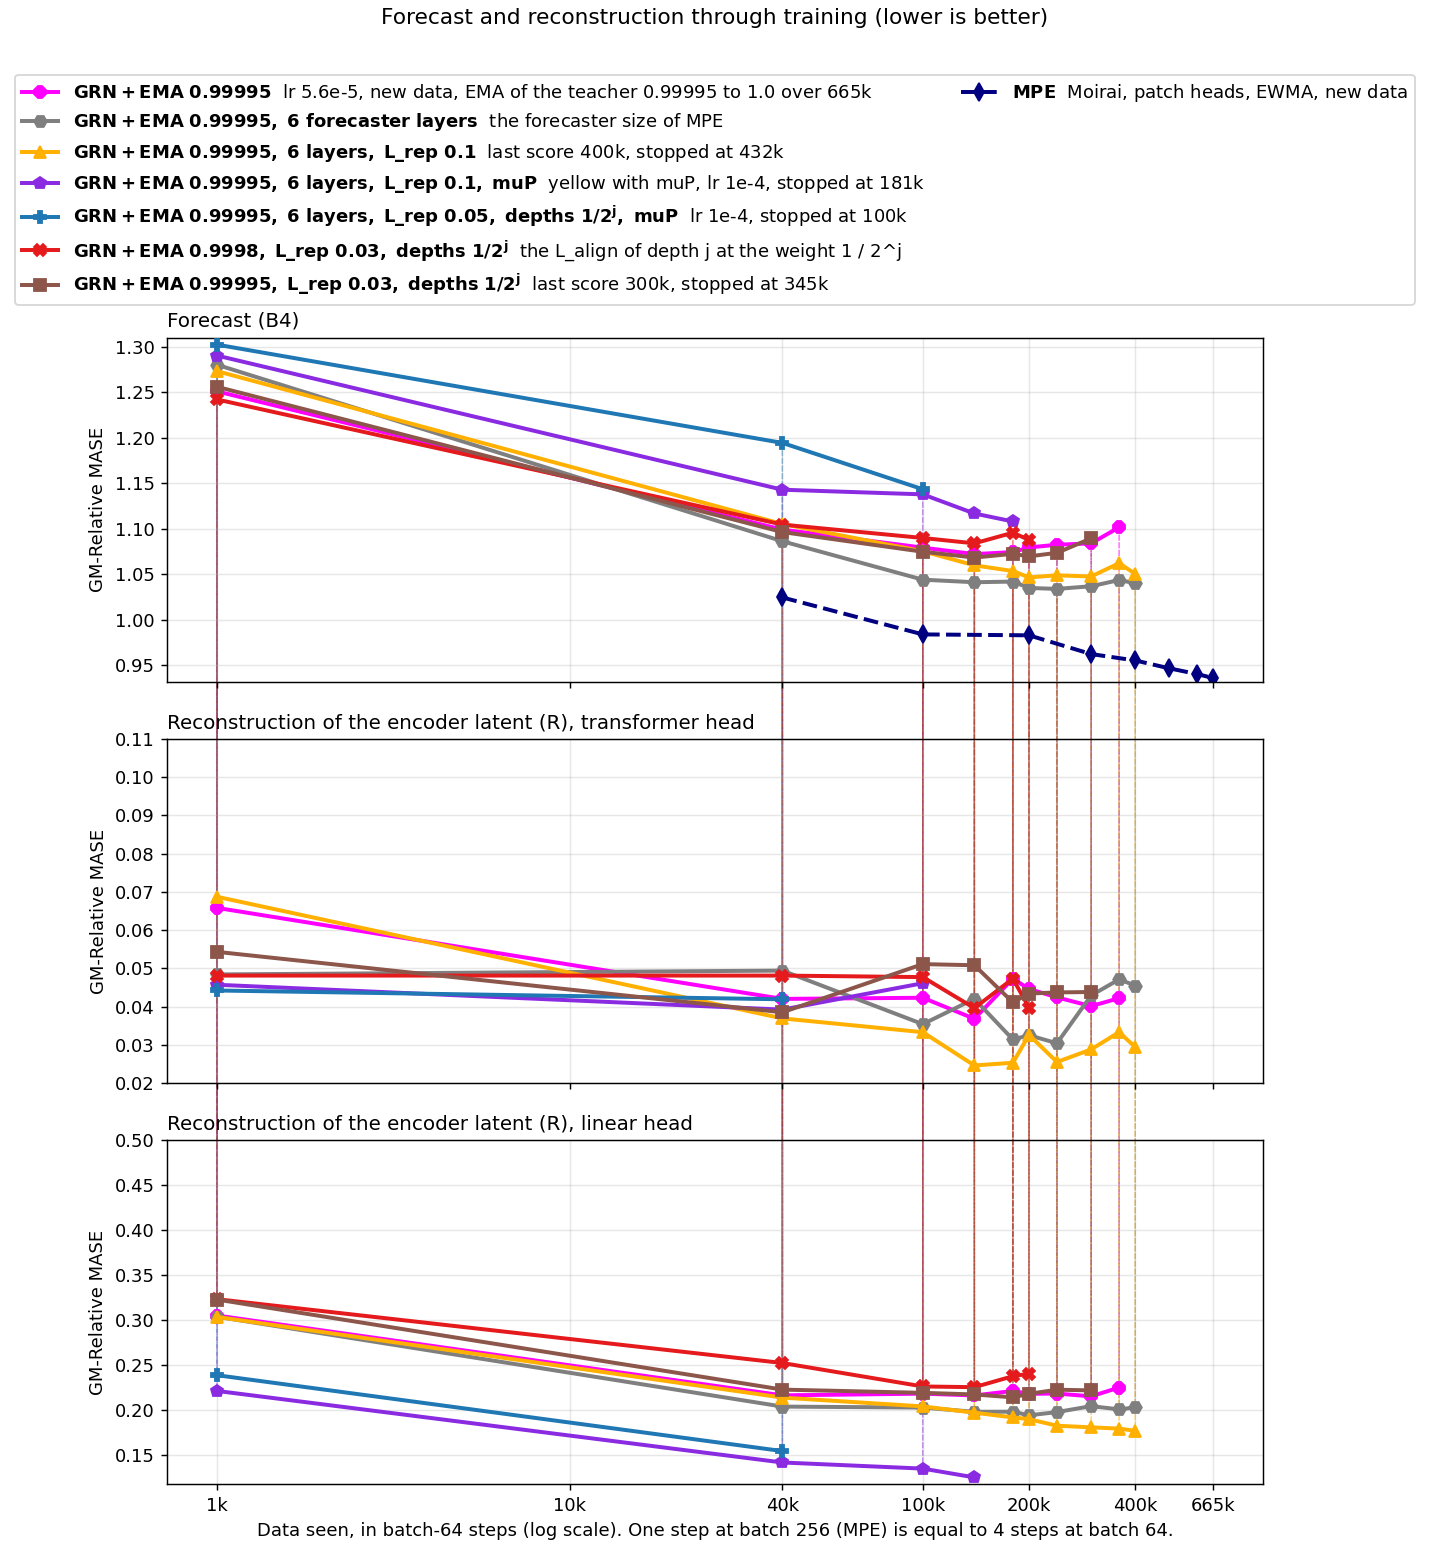
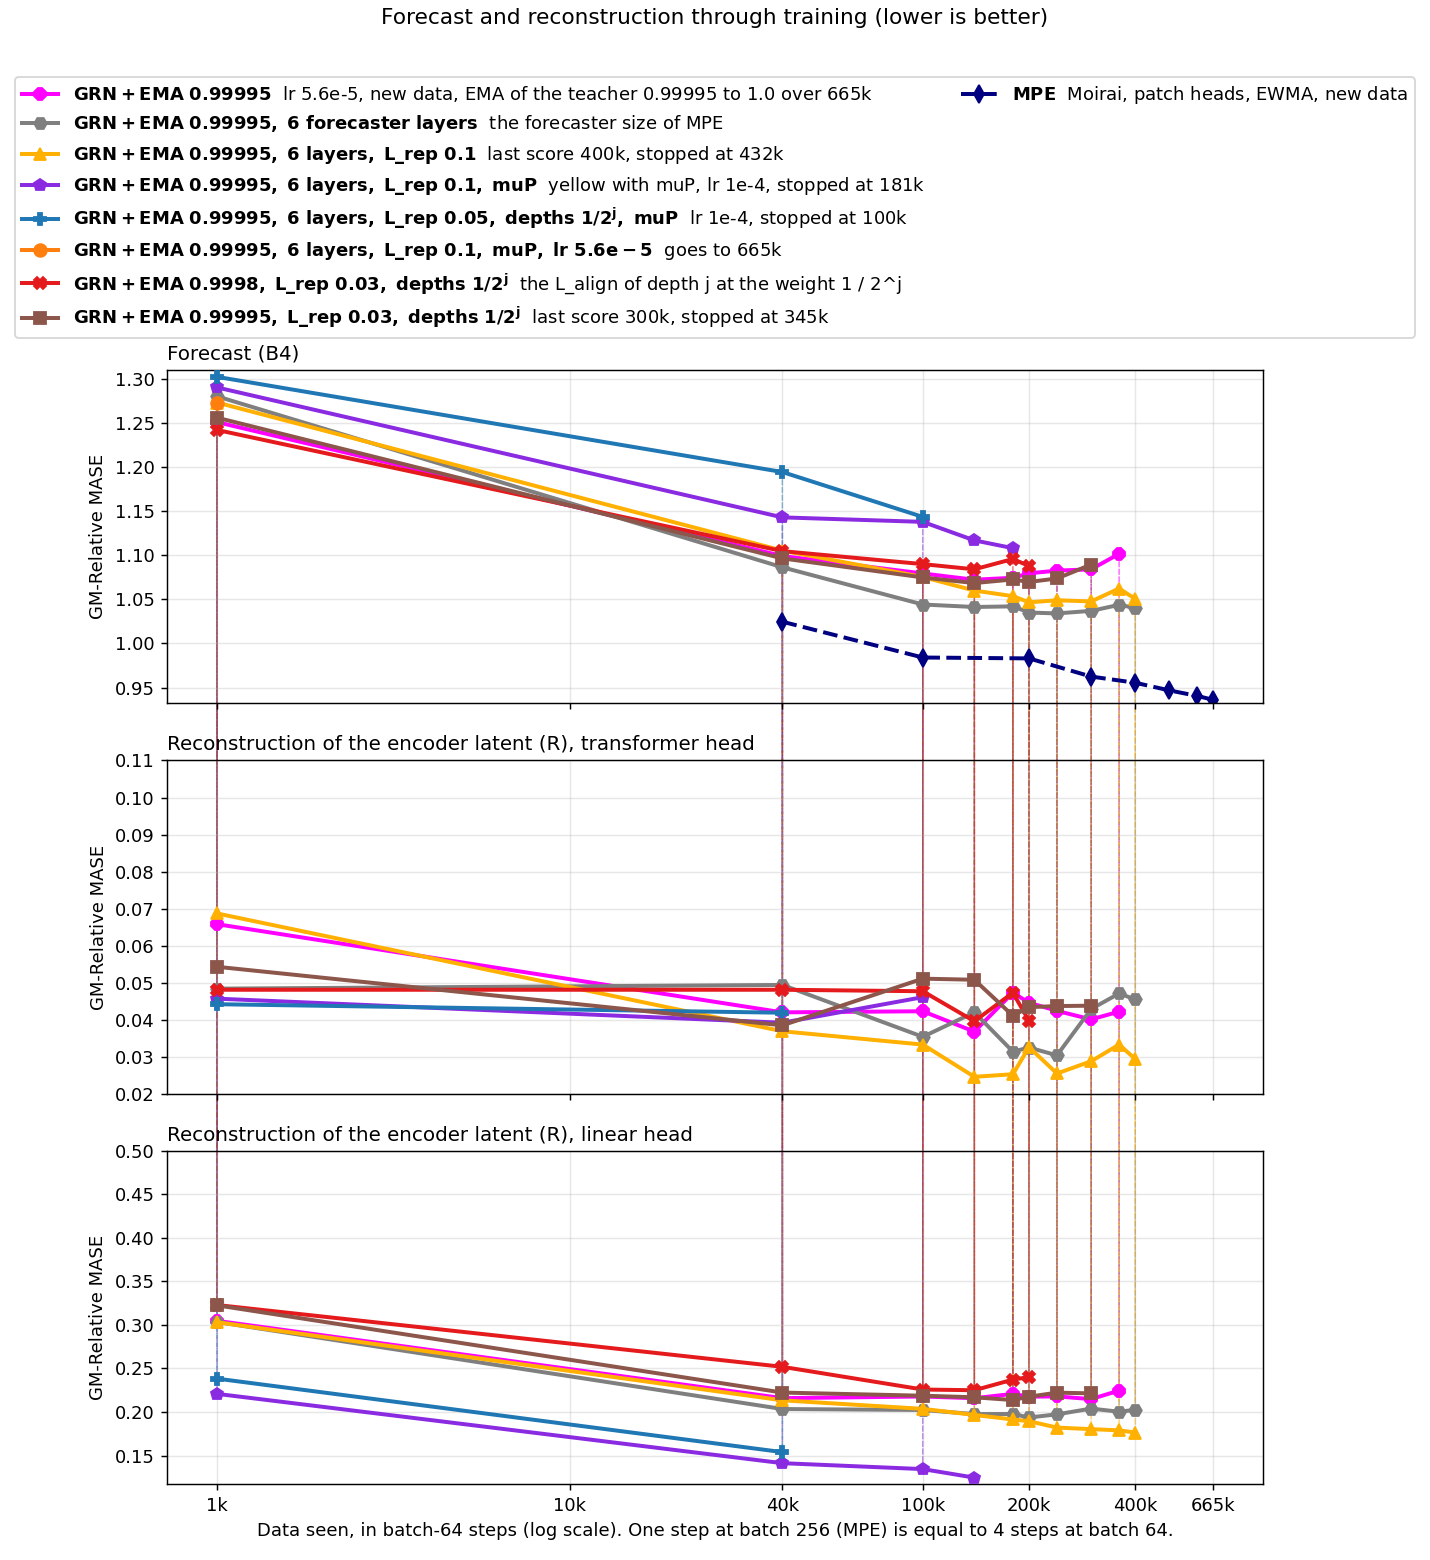
freq_family report: orange's 1k forecast; orange, lime and pink in the score figure

Changed region(s): [[0.0, 0.0308, 0.8923, 0.9538], [0.6769, 0.0308, 0.9846, 0.0615]]

diff --git a/reports/2026-10-10_frequency_family_head/scripts/plot_green_scores.py b/reports/2026-10-10_frequency_family_head/scripts/plot_green_scores.py
@@ -2,7 +2,8 @@
 for the runs of this report (GRN+EMA 0.99995, GRN+EMA 0.99995 with a
 forecaster of 6 layers, the same with the L_rep weight 0.1 at each
 step, the same with muP, the same with the L_rep weight 0.05 and the depth
-weights 1 / 2^j, GRN+EMA 0.9998 with the L_rep weight 0.03 and the depth
+weights 1 / 2^j, the muP run with lr 5.6e-5, with the EMA 0.999975, or with
+lr 3.36e-4 and the input init 1.008, GRN+EMA 0.9998 with the L_rep weight 0.03 and the depth
 weights 1 / 2^j, the same with the EMA 0.99995), next to the forecast of MPE
 (Moirai, patch heads, EWMA, new data, batch 256: x 4 for the data seen).
 Writes plots/forecast_and_reconstruction.png: three panels on one x axis.
@@ -20,7 +21,9 @@ reports/2026-10-06_encoder_reconstruction/results/*.tsv), and the scores of
 the runs of this report (GRN+EMA 0.99995: arm grn_ema099995, with 6
 forecaster layers: arm grn_ema099995_f6, and with the L_rep weight 0.1: arm
 grn_ema099995_f6_rep01, and with muP (the settings of the muP grid, lr 1e-4):
-arm grn_ema099995_f6_rep01_mup, GRN+EMA 0.9998 with the L_rep weight 0.03 and
+arm grn_ema099995_f6_rep01_mup, and its variants: arms
+grn_ema099995_f6_rep01_mup_lr56, grn_ema0999975_f6_rep01_mup and
+grn_ema099995_f6_rep01_mup_hid56, GRN+EMA 0.9998 with the L_rep weight 0.03 and
 the depth weights 1 / 2^j: arm grn_ema09998_rep003_halving, and the same with
 the EMA 0.99995: arm grn_ema099995_rep003_halving): results/scores.tsv (B4,
 arm `control`), and results/recon_*.tsv (R, with the columns arm, stop in
@@ -57,6 +60,12 @@ GRN_EMA099995_F6_REP01_MUP_COLOUR = "#8a2be2"  # no other run of this figure has
 GRN_EMA099995_F6_REP005_HALVING_MUP = "grn_ema099995_f6_rep005_halving_mup"
 # no other run of this figure has this colour
 GRN_EMA099995_F6_REP005_HALVING_MUP_COLOUR = "#1f77b4"
+GRN_EMA099995_F6_REP01_MUP_LR56 = "grn_ema099995_f6_rep01_mup_lr56"
+GRN_EMA099995_F6_REP01_MUP_LR56_COLOUR = "#ff7f0e"  # orange
+GRN_EMA0999975_F6_REP01_MUP = "grn_ema0999975_f6_rep01_mup"
+GRN_EMA0999975_F6_REP01_MUP_COLOUR = "#7fff00"  # lime
+GRN_EMA099995_F6_REP01_MUP_HID56 = "grn_ema099995_f6_rep01_mup_hid56"
+GRN_EMA099995_F6_REP01_MUP_HID56_COLOUR = "#ff69b4"  # pink
 GRN_EMA09998_REP003_HALVING ="grn_ema09998_rep003_halving"
 GRN_EMA09998_REP003_HALVING_COLOUR = "#e41a1c"  # no other run of this figure has this colour
 GRN_EMA099995_REP003_HALVING = "grn_ema099995_rep003_halving"
@@ -64,11 +73,14 @@ GRN_EMA099995_REP003_HALVING_COLOUR = "#8c564b"  # no other run of this figure h
 # The runs of this report: their forecast comes from results/scores.tsv.
 NEW_RUNS = [GRN_EMA099995, GRN_EMA099995_F6,
             GRN_EMA099995_F6_REP01, GRN_EMA099995_F6_REP01_MUP,
-            GRN_EMA099995_F6_REP005_HALVING_MUP, GRN_EMA09998_REP003_HALVING,
-            GRN_EMA099995_REP003_HALVING]
+            GRN_EMA099995_F6_REP005_HALVING_MUP, GRN_EMA099995_F6_REP01_MUP_LR56,
+            GRN_EMA0999975_F6_REP01_MUP, GRN_EMA099995_F6_REP01_MUP_HID56,
+            GRN_EMA09998_REP003_HALVING, GRN_EMA099995_REP003_HALVING]
 # The newest runs: drawn above the others, so that their first points show.
 ON_TOP = {GRN_EMA099995, GRN_EMA099995_F6, GRN_EMA099995_F6_REP01,
           GRN_EMA099995_F6_REP01_MUP, GRN_EMA099995_F6_REP005_HALVING_MUP,
+          GRN_EMA099995_F6_REP01_MUP_LR56, GRN_EMA0999975_F6_REP01_MUP,
+          GRN_EMA099995_F6_REP01_MUP_HID56,
           GRN_EMA09998_REP003_HALVING, GRN_EMA099995_REP003_HALVING}
 MPE = "cf421ew_moirai_native"
 # Its R (transformer head 0.12 to 0.21) lies far above the R panels.
@@ -87,6 +99,15 @@ RUNS = [
     (GRN_EMA099995_F6_REP005_HALVING_MUP,
      r"$\mathbf{GRN+EMA\ 0.99995,\ 6\ layers,\ L\_rep\ 0.05,\ depths\ 1/2^j,\ muP}$  "
      "lr 1e-4, stopped at 100k", GRN_EMA099995_F6_REP005_HALVING_MUP_COLOUR, "P"),
+    (GRN_EMA099995_F6_REP01_MUP_LR56,
+     r"$\mathbf{GRN+EMA\ 0.99995,\ 6\ layers,\ L\_rep\ 0.1,\ muP,\ lr\ 5.6e-5}$  "
+     "goes to 665k", GRN_EMA099995_F6_REP01_MUP_LR56_COLOUR, "o"),
+    (GRN_EMA0999975_F6_REP01_MUP,
+     r"$\mathbf{GRN+EMA\ 0.999975,\ 6\ layers,\ L\_rep\ 0.1,\ muP}$  "
+     "lr 1e-4, goes to 665k", GRN_EMA0999975_F6_REP01_MUP_COLOUR, "v"),
+    (GRN_EMA099995_F6_REP01_MUP_HID56,
+     r"$\mathbf{GRN+EMA\ 0.99995,\ 6\ layers,\ L\_rep\ 0.1,\ muP,\ lr\ 3.36e-4}$  "
+     "input init 1.008, to 665k", GRN_EMA099995_F6_REP01_MUP_HID56_COLOUR, "*"),
     (GRN_EMA09998_REP003_HALVING, r"$\mathbf{GRN+EMA\ 0.9998,\ L\_rep\ 0.03,\ depths\ 1/2^j}$  "
      "the L_align of depth j at the weight 1 / 2^j", GRN_EMA09998_REP003_HALVING_COLOUR, "X"),
     (GRN_EMA099995_REP003_HALVING, r"$\mathbf{GRN+EMA\ 0.99995,\ L\_rep\ 0.03,\ depths\ 1/2^j}$  "
@@ -97,8 +118,9 @@ OURS = STUDY / "results"
 # The R tables of collect_recon.py.
 OUR_R_TABLES = ["grn_ema099995", "grn_ema099995_f6",
                 "grn_ema099995_f6_rep01", "grn_ema099995_f6_rep01_mup",
-                "grn_ema099995_f6_rep005_halving_mup", "grn_ema09998_rep003_halving",
-                "grn_ema099995_rep003_halving"]
+                "grn_ema099995_f6_rep005_halving_mup", "grn_ema099995_f6_rep01_mup_lr56",
+                "grn_ema0999975_f6_rep01_mup", "grn_ema099995_f6_rep01_mup_hid56",
+                "grn_ema09998_rep003_halving", "grn_ema099995_rep003_halving"]
 # panel title, y range, the score tables, and whether the forecast of the
 # runs of this report comes from results/scores.tsv
 PANELS = [

diff --git a/reports/2026-10-10_frequency_family_head/scripts/collect_recon.py b/reports/2026-10-10_frequency_family_head/scripts/collect_recon.py
@@ -30,6 +30,9 @@ TABLES = {"abc_gift": "green", "blk_ema": "blk_ema", "grn_ema095": "grn_ema095",
           "grn_ema099995_f6_rep01": "grn_ema099995_f6_rep01",
           "grn_ema099995_f6_rep01_mup": "grn_ema099995_f6_rep01_mup",
           "grn_ema099995_f6_rep005_halving_mup": "grn_ema099995_f6_rep005_halving_mup",
+          "grn_ema099995_f6_rep01_mup_lr56": "grn_ema099995_f6_rep01_mup_lr56",
+          "grn_ema0999975_f6_rep01_mup": "grn_ema0999975_f6_rep01_mup",
+          "grn_ema099995_f6_rep01_mup_hid56": "grn_ema099995_f6_rep01_mup_hid56",
           "grn_ema09998_rep003_halving": "grn_ema09998_rep003_halving",
           "grn_ema099995_rep003_halving": "grn_ema099995_rep003_halving",
           "blk_emacos": "blk_emacos",
